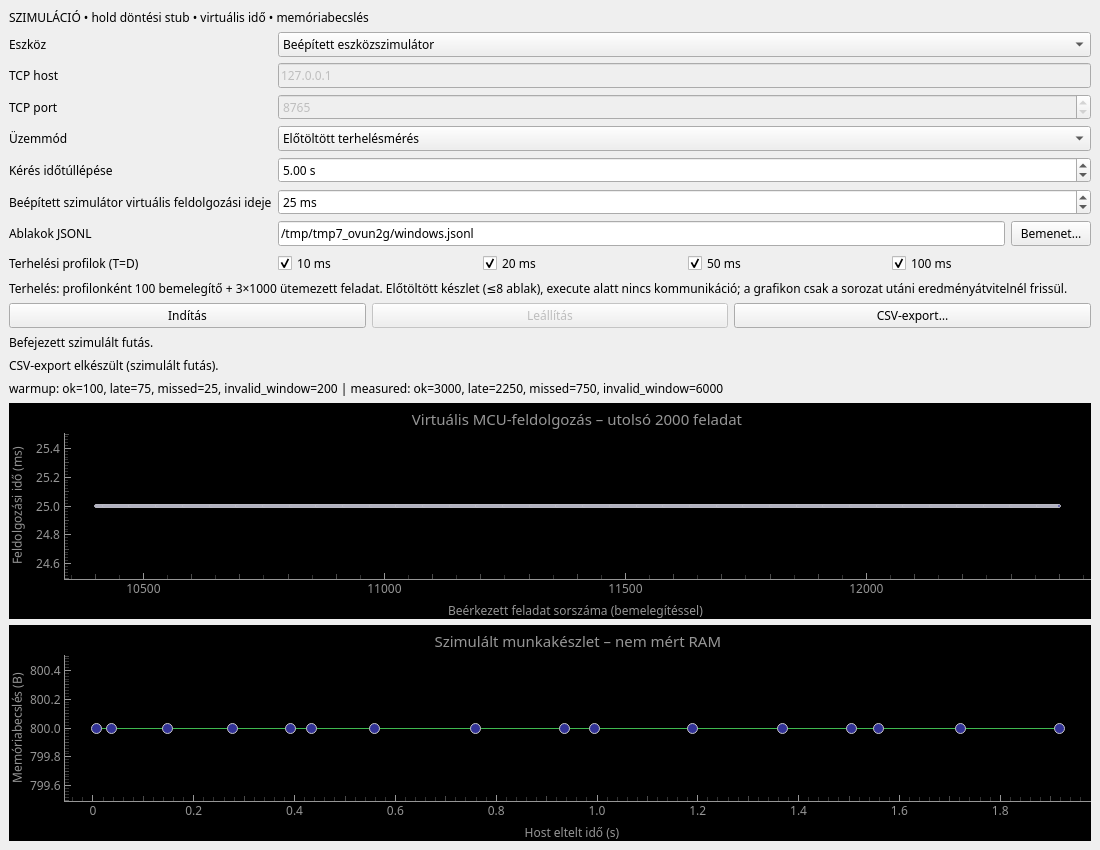
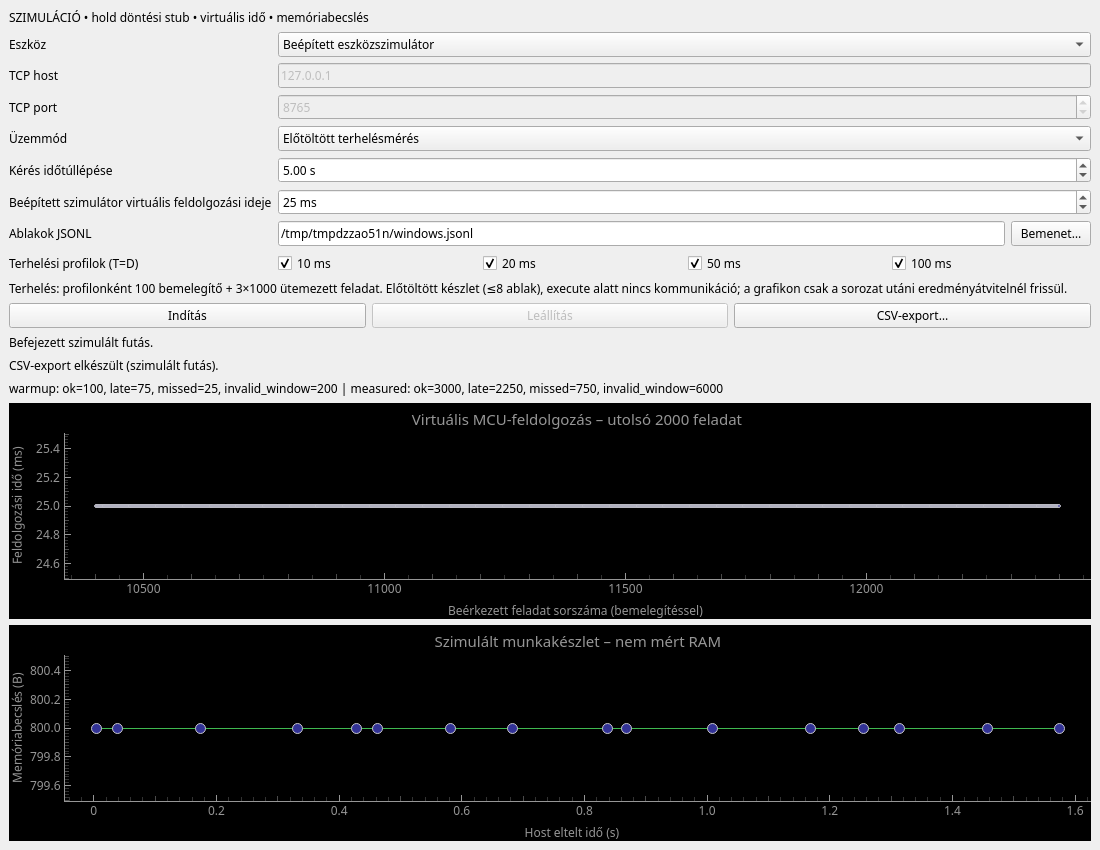
Pin verified Qt binding and declare widget slots

diff --git a/gearshift/gui.py b/gearshift/gui.py
@@ -6,7 +6,7 @@ import threading
 from collections import Counter, deque
 
 import pyqtgraph as pg
-from PySide6.QtCore import QTimer
+from PySide6.QtCore import QTimer, Slot
 from PySide6.QtWidgets import (QApplication, QCheckBox, QComboBox, QDoubleSpinBox,
                                QFileDialog, QFormLayout, QHBoxLayout, QLabel,
                                QLineEdit, QMainWindow, QPushButton, QSpinBox,
@@ -117,6 +117,7 @@ class Window(QMainWindow):
         self.timer.timeout.connect(self.poll)
         self.timer.start()
 
+    @Slot()
     def configure(self):
         busy = self.session is not None and not self.finished
         for widget in self.config_widgets:
@@ -133,11 +134,13 @@ class Window(QMainWindow):
             'Előtöltött készlet (≤8 ablak), execute alatt nincs kommunikáció; '
             'a grafikon csak a sorozat utáni eredményátvitelnél frissül.')
 
+    @Slot()
     def choose_input(self):
         path, _ = QFileDialog.getOpenFileName(self, 'Ablakok', '', 'JSON Lines (*.jsonl);;Minden fájl (*)')
         if path:
             self.input.setText(path)
 
+    @Slot()
     def start(self):
         profiles = tuple(p for p, box in self.profiles if box.isChecked())
         if self.mode.currentIndex() == 1 and not profiles:
@@ -164,6 +167,7 @@ class Window(QMainWindow):
         self.configure()
         self.session.start()
 
+    @Slot()
     def stop(self):
         if self.session and not self.finished:
             self.session.stop()
@@ -193,6 +197,7 @@ class Window(QMainWindow):
                 for phase in ('live', 'warmup', 'measured')
                 if any(p == phase for p, _ in self.counts)))
 
+    @Slot()
     def poll(self):
         if self.session and not self.finished:
             for _ in range(1000):
@@ -237,6 +242,7 @@ class Window(QMainWindow):
                 self.export_thread is None or not self.export_thread.is_alive()):
             self.close()
 
+    @Slot()
     def choose_export(self):
         path, _ = QFileDialog.getSaveFileName(self, 'CSV-export', 'measurement.csv', 'CSV (*.csv)')
         if path:

diff --git a/docs/verification/issue-8.md b/docs/verification/issue-8.md
@@ -7,7 +7,7 @@ Az eredeti worktree meglévő, nem követett dokumentuma nem módosult.
 
 ## Környezet és futtatás
 
-Linux x86_64, Python 3.13, PySide6 6.12.0, pyqtgraph 0.14.0, NumPy 2.5.4.
+Linux x86_64, Python 3.13, PySide6 6.10.2, pyqtgraph 0.14.0, NumPy 2.5.4.
 Izolált `/tmp/issue8-venv` környezet; Qt `offscreen` platform.
 
 ```bash
@@ -15,7 +15,7 @@ QT_QPA_PLATFORM=offscreen UI_EVIDENCE_DIR=docs/verification/issue-8 \
   /tmp/issue8-venv/bin/python -m unittest discover -s tests -v
 ```
 
-Eredmény: **41 teszt, 10,369 s, OK, nincs skip**.
+Eredmény: **41 teszt, 10,379 s, OK, nincs skip**.
 [Teljes tesztnapló](issue-8/tests.txt).
 A kezdeti sandboxos futtatás a helyi socketpár `sendall` műveletét
 `PermissionError` hibával tiltotta; a végső futás engedélyezett, sandboxon
@@ -23,6 +23,9 @@ kívüli környezetben, valódi socketpárral és loopback TCP-vel történt.
 Az offscreen platform `propagateSizeHints` üzenetei nem teszthibák.
 A GitHub Ubuntu runner első GUI-jobjából hiányzott a `libEGL.so.1`;
 a workflow explicit `libegl1`/`libopengl0` rendszerfüggőség-telepítést kapott.
+A kezdetben feloldott PySide6 6.12 több CI-futásban natív felszabadítási
+hibával állt le; a függőség a helyben ellenőrzött 6.10.2 verzióra rögzített,
+a GUI Qt-visszahívásai explicit Slot deklarációt kaptak.
 
 ## Bizonyítékok
 
